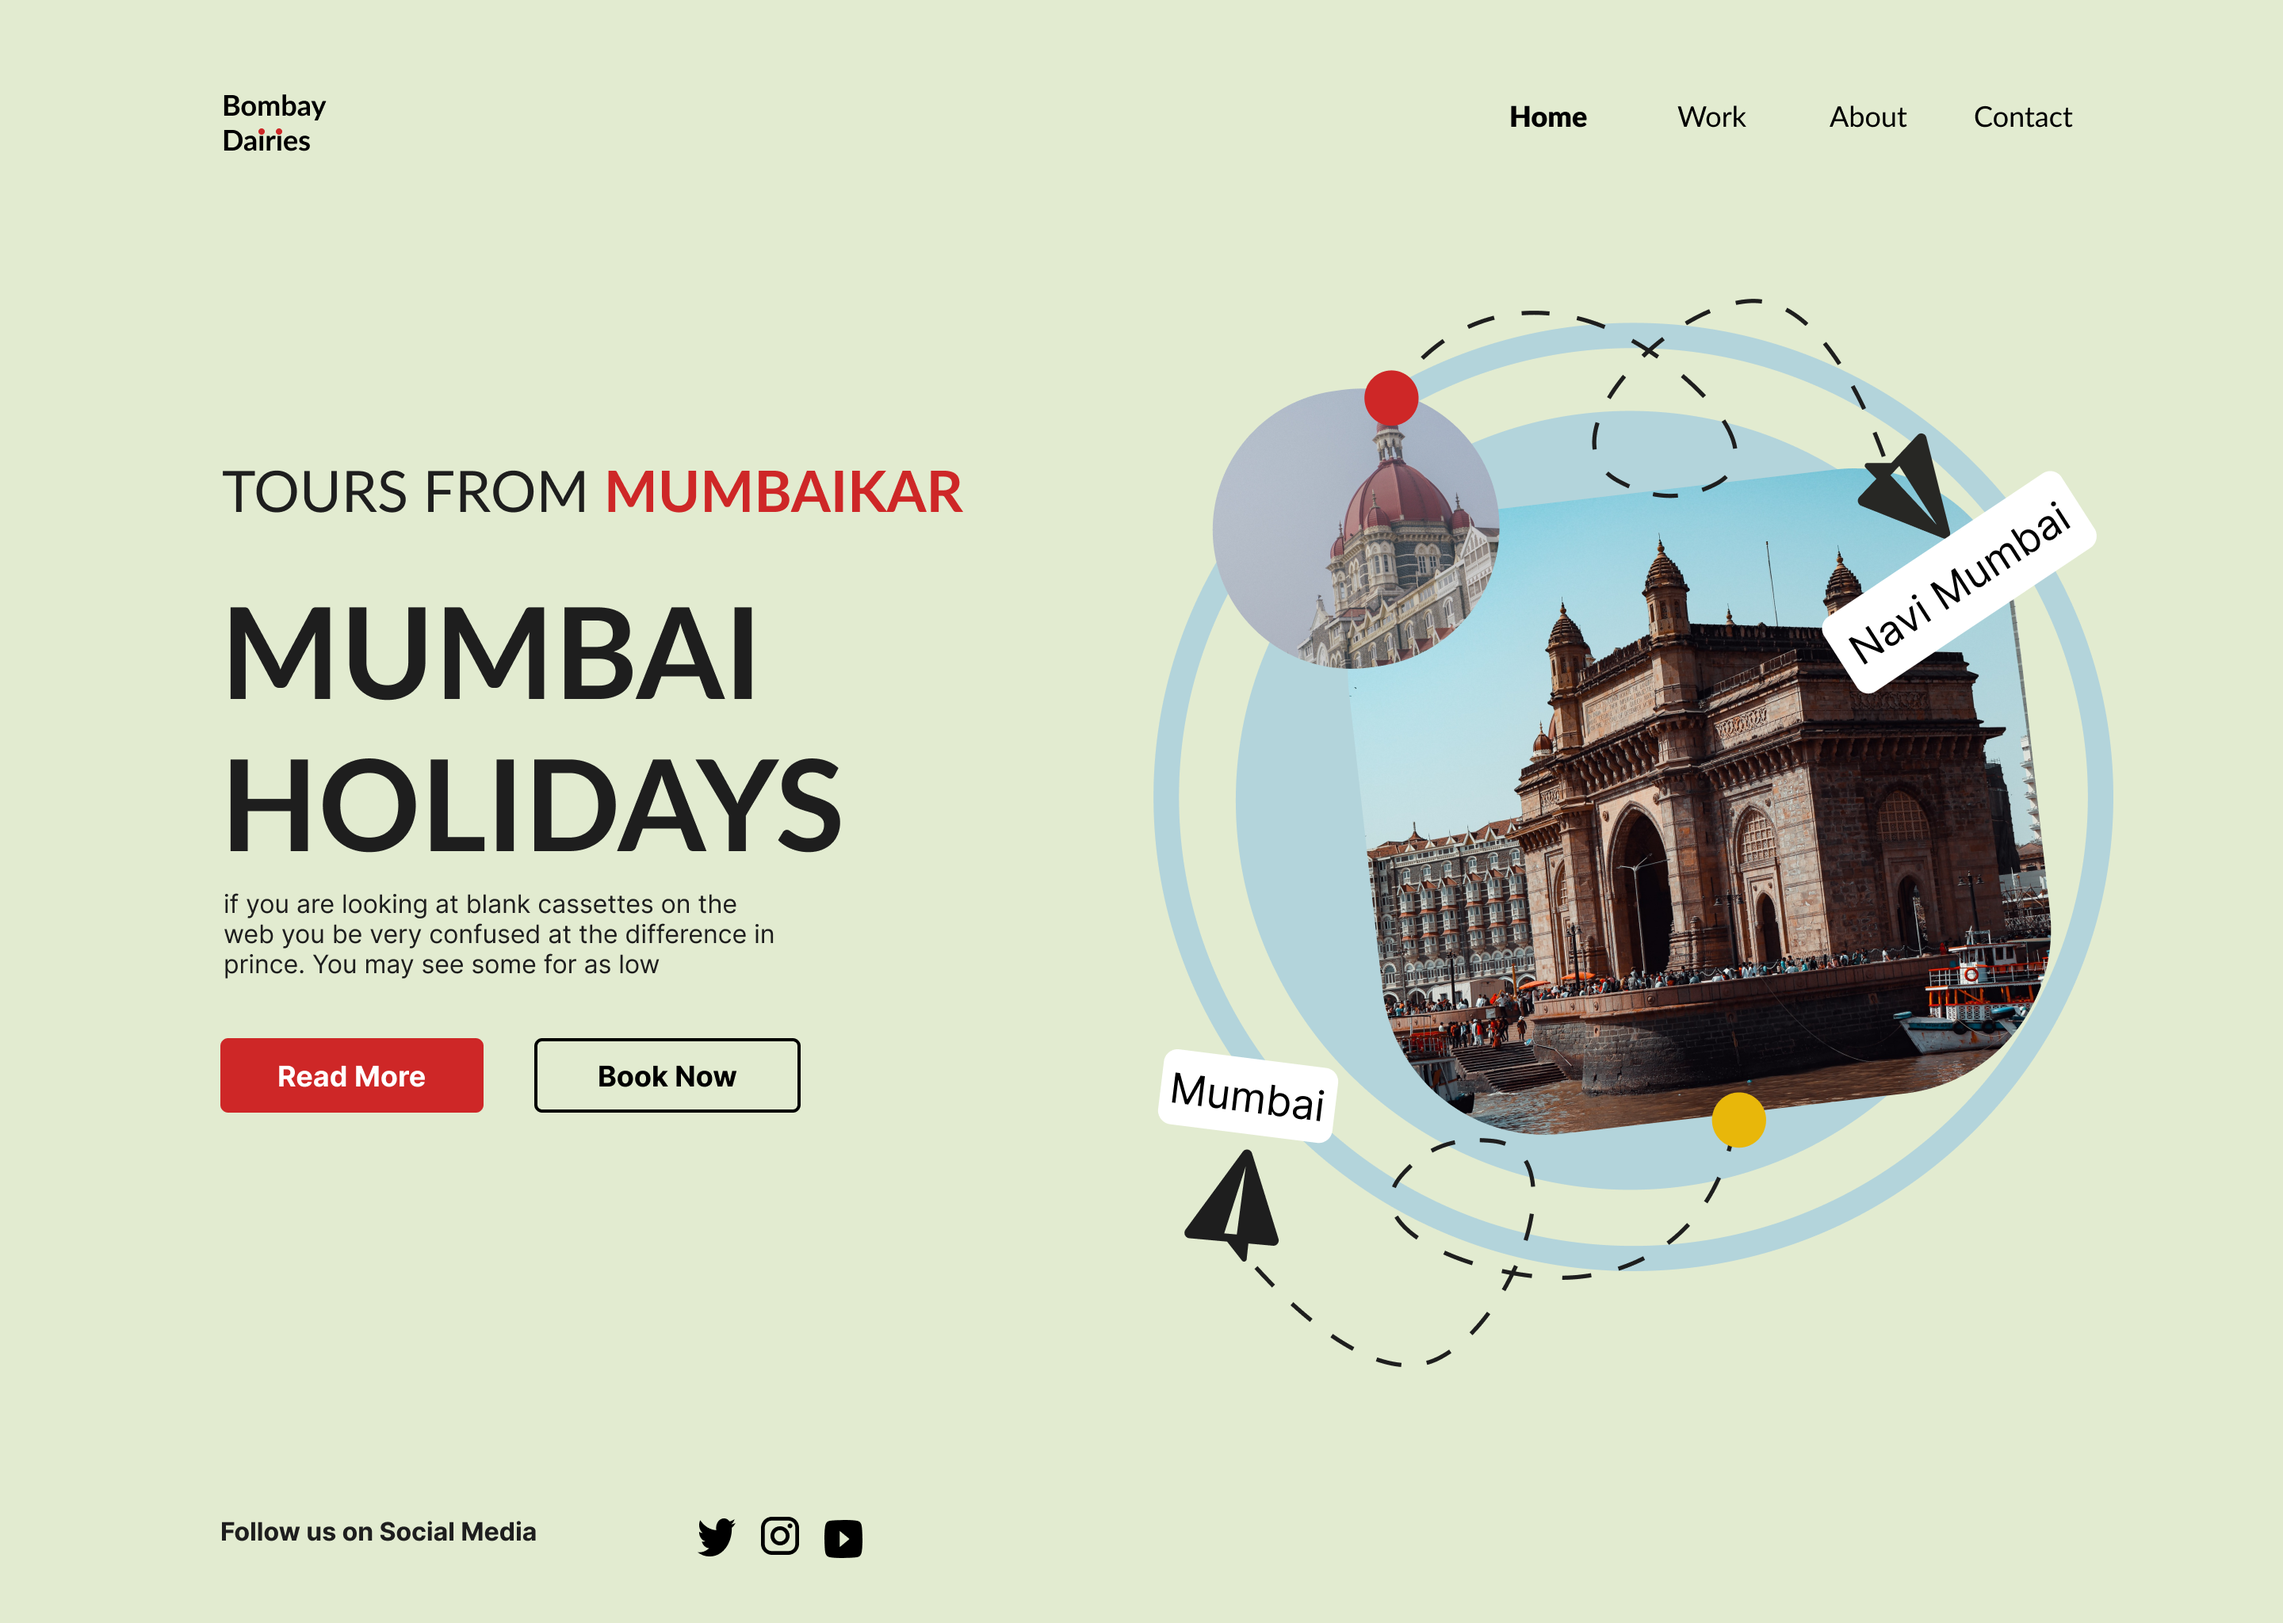
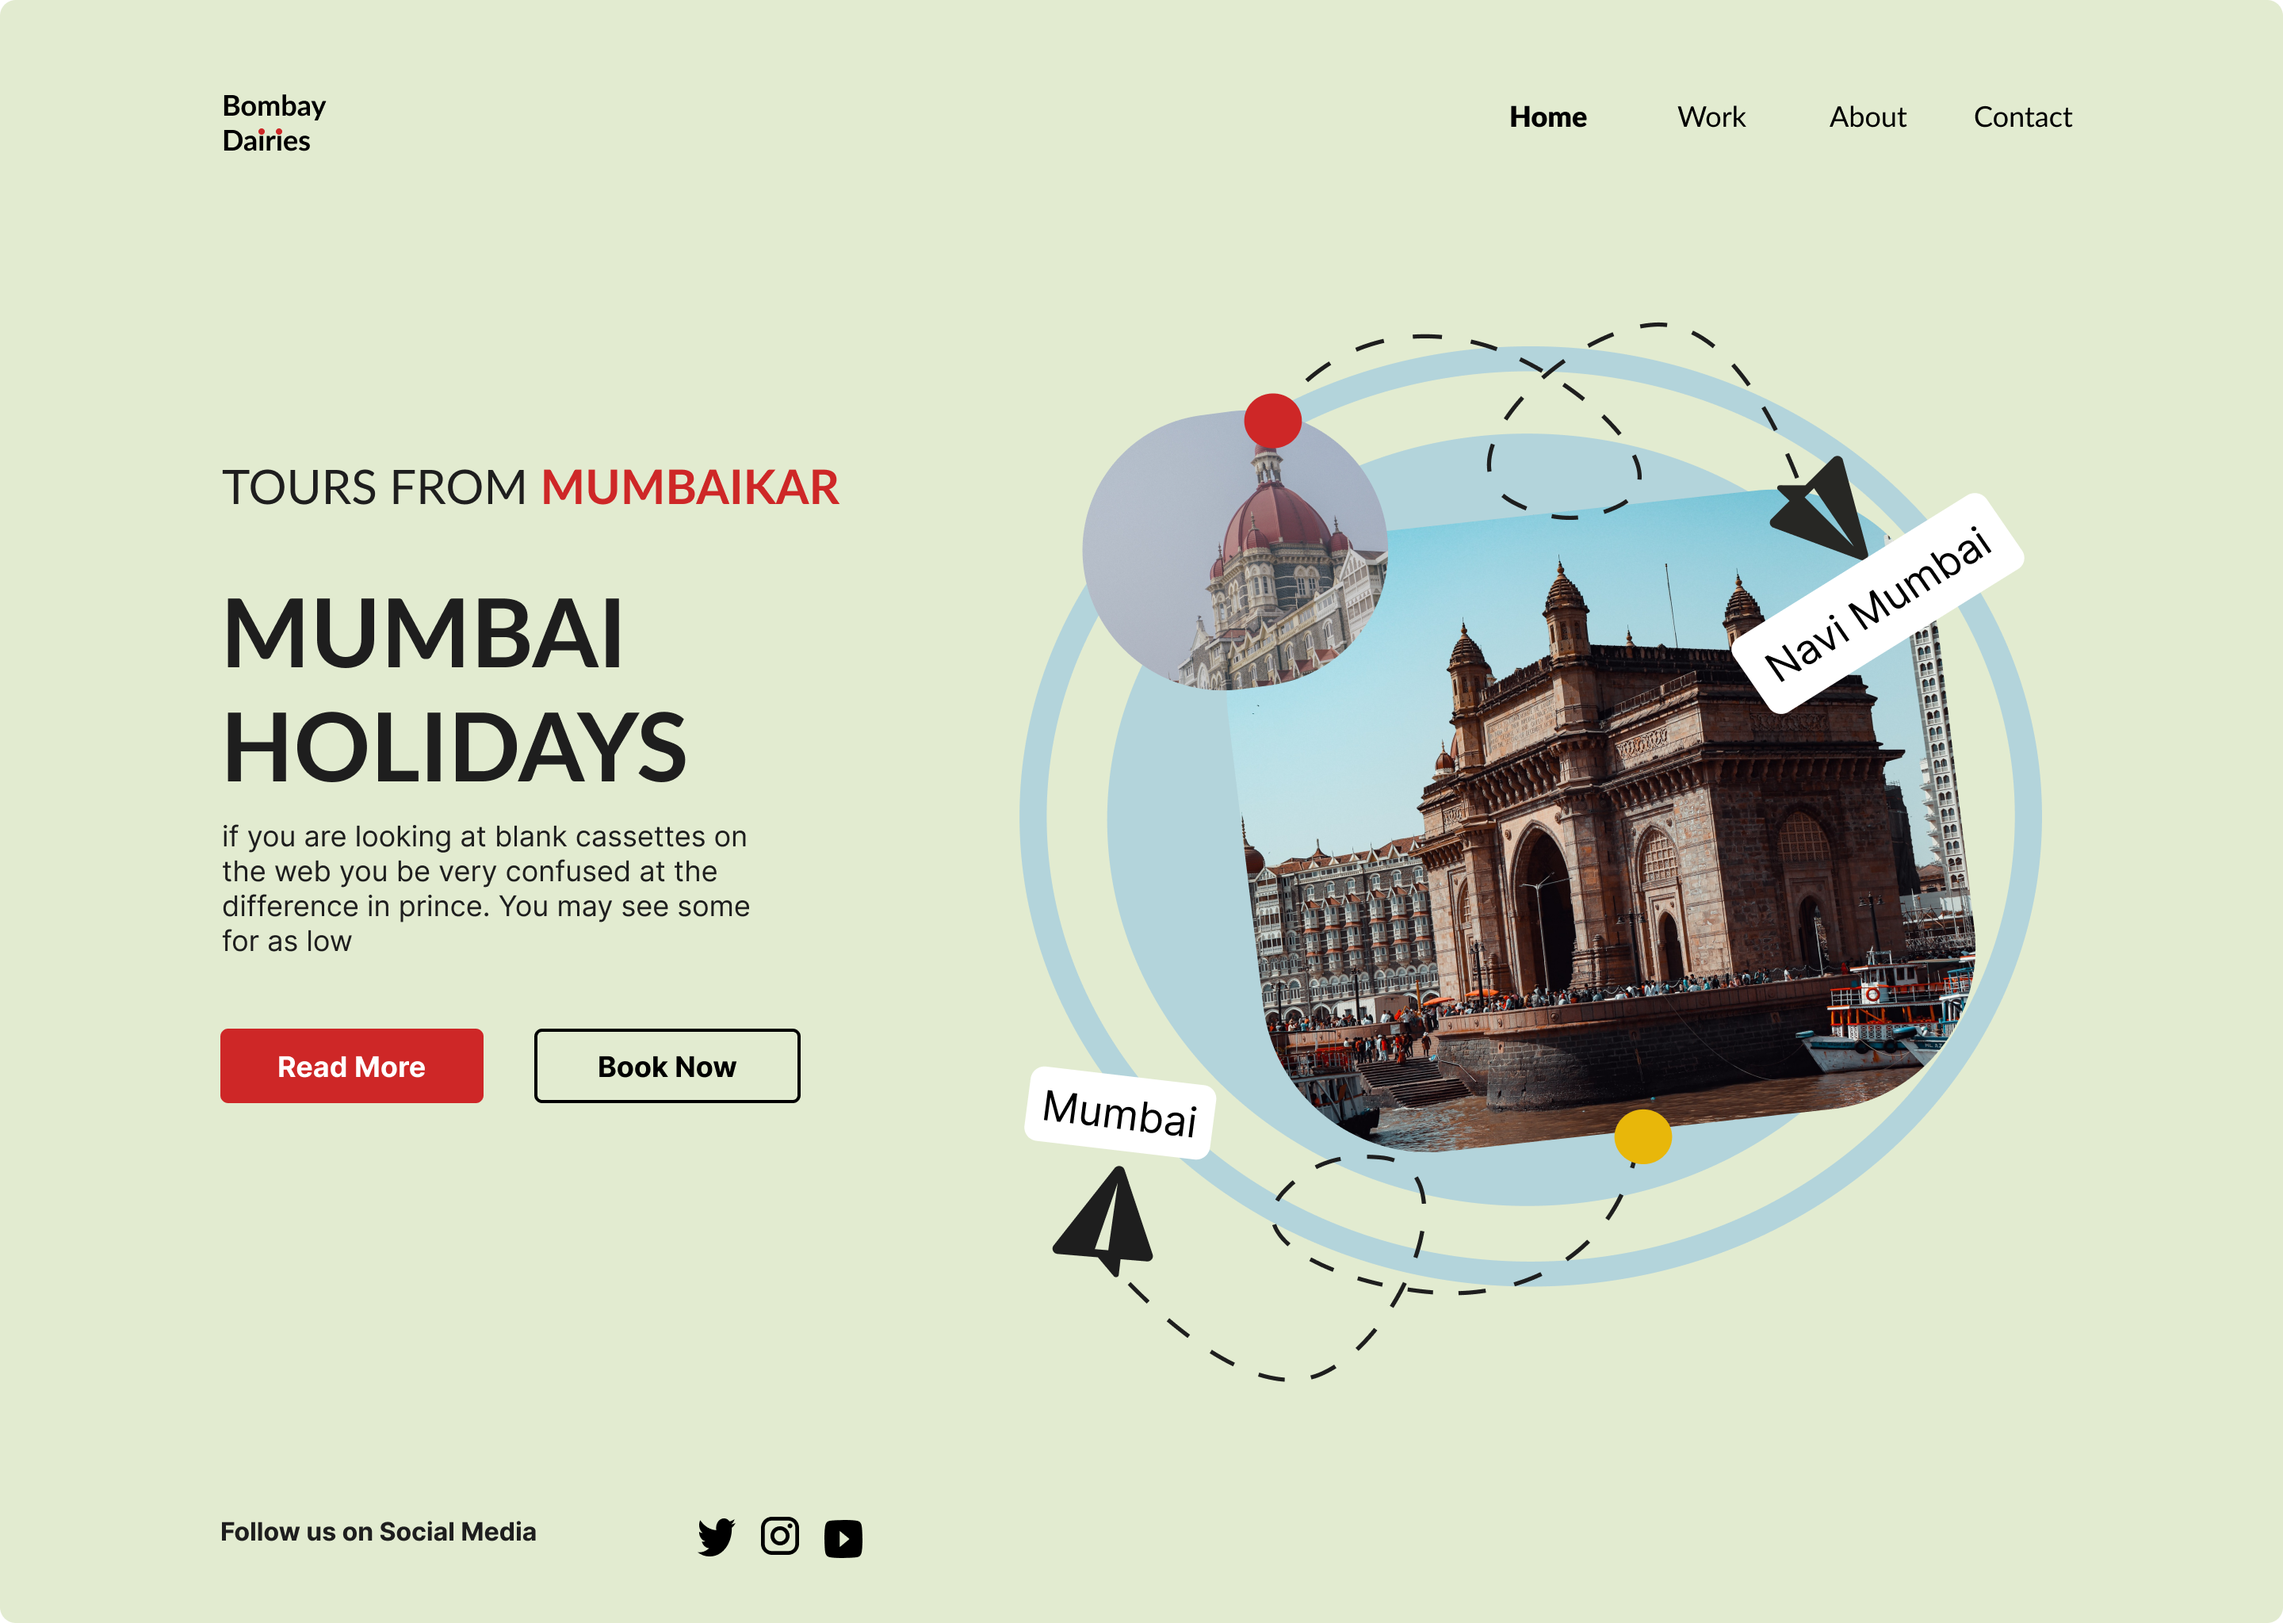
Adding new folder

diff --git a/Hero Section/index.html b/Hero Section/index.html
@@ -1,0 +1,69 @@
+<!DOCTYPE html>
+<html lang="en">
+<head>
+    <meta charset="UTF-8">
+    <meta name="viewport" content="width=device-width, initial-scale=1.0">
+    <link rel="stylesheet" href="style.css">
+    <title>Bombay Dairies</title>
+</head>
+<body>
+
+    <!-- Hero Section Start -->
+    <section class="hero">
+
+        <!-- Navbar Start -->
+        <nav>
+            <a href="#"><img src="Asset/Logo.svg" alt="Bombay Dairies"></a>
+            <ul>
+                <li><a href="#">Home</a></li>
+                <li><a href="#">Work</a></li>
+                <li><a href="#">About</a></li>
+                <li><a href="#">Contact</a></li>
+            </ul>
+        </nav>
+        <!-- Navbar end -->
+
+        <!-- content start -->
+        <div class="content">
+            <h2>TOURS FROM <span>MUMBAIKAR</span></h2>
+            <h1>MUMBAI<br>HOLIDAYS</h1>
+            <p>if you are looking at blank cassettes on the web
+                you be very confused at the difference in prince. 
+                You may see some for as low </p>
+            <button class="b1">Read More</button>
+            <button class="b2">Book Now</button>
+        </div>
+        <!-- content end -->
+
+        <!-- Feature Image Start -->
+        <img src="Asset/feature-img.png" class="feature-img" alt="feature-image">
+        <!-- Feature Image end -->
+
+        <!-- social start -->
+        <div class="social">
+            <p>Follow us on Social Media</p>
+            <div class="icon">
+                <a href="#">
+                    <svg width="24" height="24" viewBox="0 0 24 24" fill="none" xmlns="http://www.w3.org/2000/svg">
+                    <path d="M24 2.84906C23.1015 3.33794 22.1487 3.65909 21.1731 3.80191C22.201 3.04475 22.9701 1.85384 23.3371 0.45101C22.3717 1.15768 21.3132 1.65293 20.2111 1.92083C19.4701 0.94565 18.4879 0.298907 17.4171 0.0811439C16.3464 -0.136619 15.2472 0.0868006 14.2903 0.716669C13.3335 1.34654 12.5727 2.34756 12.1261 3.56412C11.6796 4.78068 11.5723 6.14462 11.821 7.44388C9.86296 7.32339 7.94737 6.69771 6.19867 5.60749C4.44998 4.51727 2.90727 2.98688 1.67072 1.11569C1.23307 2.04023 1.00309 3.09122 1.00432 4.16104C1.00432 6.26078 1.87441 8.1158 3.19427 9.20187C2.4125 9.17155 1.64794 8.91188 0.964286 8.44452V8.51837C0.96425 9.91705 1.35757 11.2727 2.07755 12.3554C2.79752 13.438 3.79982 14.1811 4.91444 14.4585C4.18875 14.7006 3.42774 14.7363 2.68917 14.5627C3.00344 15.7667 3.61603 16.8196 4.44113 17.5739C5.26623 18.3283 6.26251 18.7463 7.29042 18.7695C6.26887 19.7563 5.09916 20.4857 3.8482 20.9161C2.59725 21.3464 1.28959 21.4693 0 21.2776C2.25085 23.0578 4.871 24.003 7.5471 24C16.606 24 21.5581 14.7713 21.5581 6.76762C21.5581 6.50696 21.5534 6.24341 21.544 5.9842C22.5075 5.12744 23.3392 4.06483 24 2.84906Z" fill="black"/>
+                    </svg>
+                </a>
+                <a href="#">
+                    <svg width="24" height="24" viewBox="0 0 24 24" fill="none" xmlns="http://www.w3.org/2000/svg">
+                    <path d="M6.96 0H17.04C20.88 0 24 3.12 24 6.96V17.04C24 18.8859 23.2667 20.6562 21.9615 21.9615C20.6562 23.2667 18.8859 24 17.04 24H6.96C3.12 24 0 20.88 0 17.04V6.96C0 5.11409 0.733284 3.34379 2.03854 2.03854C3.34379 0.733284 5.11409 0 6.96 0ZM6.72 2.4C5.57427 2.4 4.47546 2.85514 3.6653 3.6653C2.85514 4.47546 2.4 5.57427 2.4 6.72V17.28C2.4 19.668 4.332 21.6 6.72 21.6H17.28C18.4257 21.6 19.5245 21.1449 20.3347 20.3347C21.1449 19.5245 21.6 18.4257 21.6 17.28V6.72C21.6 4.332 19.668 2.4 17.28 2.4H6.72ZM18.3 4.2C18.6978 4.2 19.0794 4.35804 19.3607 4.63934C19.642 4.92064 19.8 5.30218 19.8 5.7C19.8 6.09783 19.642 6.47936 19.3607 6.76066C19.0794 7.04197 18.6978 7.2 18.3 7.2C17.9022 7.2 17.5206 7.04197 17.2393 6.76066C16.958 6.47936 16.8 6.09783 16.8 5.7C16.8 5.30218 16.958 4.92064 17.2393 4.63934C17.5206 4.35804 17.9022 4.2 18.3 4.2ZM12 6C13.5913 6 15.1174 6.63214 16.2426 7.75736C17.3679 8.88258 18 10.4087 18 12C18 13.5913 17.3679 15.1174 16.2426 16.2426C15.1174 17.3679 13.5913 18 12 18C10.4087 18 8.88258 17.3679 7.75736 16.2426C6.63214 15.1174 6 13.5913 6 12C6 10.4087 6.63214 8.88258 7.75736 7.75736C8.88258 6.63214 10.4087 6 12 6ZM12 8.4C11.0452 8.4 10.1295 8.77928 9.45442 9.45442C8.77928 10.1295 8.4 11.0452 8.4 12C8.4 12.9548 8.77928 13.8705 9.45442 14.5456C10.1295 15.2207 11.0452 15.6 12 15.6C12.9548 15.6 13.8705 15.2207 14.5456 14.5456C15.2207 13.8705 15.6 12.9548 15.6 12C15.6 11.0452 15.2207 10.1295 14.5456 9.45442C13.8705 8.77928 12.9548 8.4 12 8.4Z" fill="black"/>
+                    </svg>
+                </a>
+                <a href="#">
+                    <svg width="24" height="24" viewBox="0 0 24 24" fill="none" xmlns="http://www.w3.org/2000/svg">
+                        <path d="M9.6 17.1429L15.828 12L9.6 6.85714V17.1429ZM23.472 3.72C23.628 4.52571 23.736 5.60571 23.808 6.97714C23.892 8.34857 23.928 9.53143 23.928 10.56L24 12C24 15.7543 23.808 18.5143 23.472 20.28C23.172 21.8229 22.476 22.8171 21.396 23.2457C20.832 23.4686 19.8 23.6229 18.216 23.7257C16.656 23.8457 15.228 23.8971 13.908 23.8971L12 24C6.972 24 3.84 23.7257 2.604 23.2457C1.524 22.8171 0.828 21.8229 0.528 20.28C0.372 19.4743 0.264 18.3943 0.192 17.0229C0.108 15.6514 0.0719999 14.4686 0.0719999 13.44L0 12C0 8.24571 0.192 5.48571 0.528 3.72C0.828 2.17714 1.524 1.18286 2.604 0.754286C3.168 0.531429 4.2 0.377143 5.784 0.274285C7.344 0.154285 8.772 0.102857 10.092 0.102857L12 0C17.028 0 20.16 0.274286 21.396 0.754286C22.476 1.18286 23.172 2.17714 23.472 3.72Z" fill="black"/>
+                    </svg>   
+                </a>
+            </div>
+        </div>
+        <!-- social end -->
+
+    </section>
+    <!-- Hero Section end -->
+
+</body>
+</html>

diff --git a/Hero Section/style.css b/Hero Section/style.css
@@ -1,0 +1,172 @@
+@import url('https://fonts.googleapis.com/css2?family=Lato:wght@400;700&display=swap');
+
+*{
+    padding: 0;
+    margin: 0;
+    box-sizing: border-box;
+    font-family: 'Lato', sans-serif;
+}
+
+/* color variables */
+:root{
+    --primary : #E2EBD0;
+   --secondary : #CE2727;
+   --font-color : #1E1E1E;
+}
+
+
+/* Hero Section Start */
+.hero{
+    width: 100%;
+    min-height:100vh;
+    padding:10px 8%;
+    position: relative;
+    background-color: var(--primary);
+}
+/* Hero Section end */
+
+/*  Navbar start  */
+
+nav{
+    position: fixed;
+    top: 0;
+    left: 0;
+    width: 100%;
+    padding: 40px 8%;
+    display: flex;
+    align-items: center;
+    z-index: 10;
+}
+
+nav img{
+   width: 70px;
+}
+
+nav ul{
+  flex: 1;
+  text-align: end;
+}
+
+nav ul li{
+    list-style: none;
+    display: inline-block;
+    padding: 5px 15px;
+    font-size: 18px;
+}
+
+nav a{
+    text-decoration: none;
+    color: var(--font-color);
+    transition: all 200ms ease-in;
+}
+
+nav a:hover{
+    color: var(--secondary);
+    font-weight: 700;
+}
+
+/*  Navbar end  */
+
+/* content start  */
+.content{
+    margin-top: 15%;
+    max-width: 450px;
+}
+
+h2{
+    font-size: 30px;
+    font-weight: 700;
+}
+
+h2 span{
+    color: var(--secondary);
+}
+
+h1{
+    font-size: 60px;
+    font-weight: 700;
+}
+
+p{
+    font-size: 18px;
+    padding-bottom: 30px;
+}
+
+.b1{
+    border: none;
+    background-color: var(--secondary);
+    color: var(--primary);
+    padding: 0.5rem 2rem;
+    border-radius: 5px;
+    margin-right: 25px ;
+    text-align: center;
+    cursor: pointer;
+    transition: all 200ms ease-in;
+}
+
+.b1:hover{
+    border: 2px solid var(--font-color);
+    background-color: transparent;
+    color: var(--font-color);
+    font-weight: 700;
+}
+
+
+.b2{
+    border: 2px solid var(--font-color);
+    background-color: transparent;
+    color: var(--font-color);
+    padding: 0.5rem 2rem;
+    cursor: pointer;
+    border-radius: 5px;
+    text-align: center;
+     transition: all 200ms ease-in;
+}    
+
+.b2:hover{
+    border: 2px solid var(--secondary);
+    background-color: transparent;
+    color: var(--secondary);
+    font-weight: 700;
+}
+
+/* content end  */
+
+/* feature-img start */
+.feature-img{
+    width: 500px;
+    position: absolute;
+    right: 15%;
+    top: 18%;
+    z-index: 2;
+}
+/* feature-img end */
+
+/* social start */
+.social{
+    position: fixed;
+    bottom: 0;
+    display: flex;
+   
+}
+
+.social p{
+    font-size: 18px;
+    font-weight: 700;
+    margin-right: 50px;
+}
+
+.social a svg{
+   width: 24px;
+   height: 24px;
+   margin-left: 15px;
+}
+
+.social a svg path{
+    transition: all 200ms ease-in;
+}
+
+.social a svg path:hover{
+    fill: var(--secondary) ;
+}
+/* social end */
